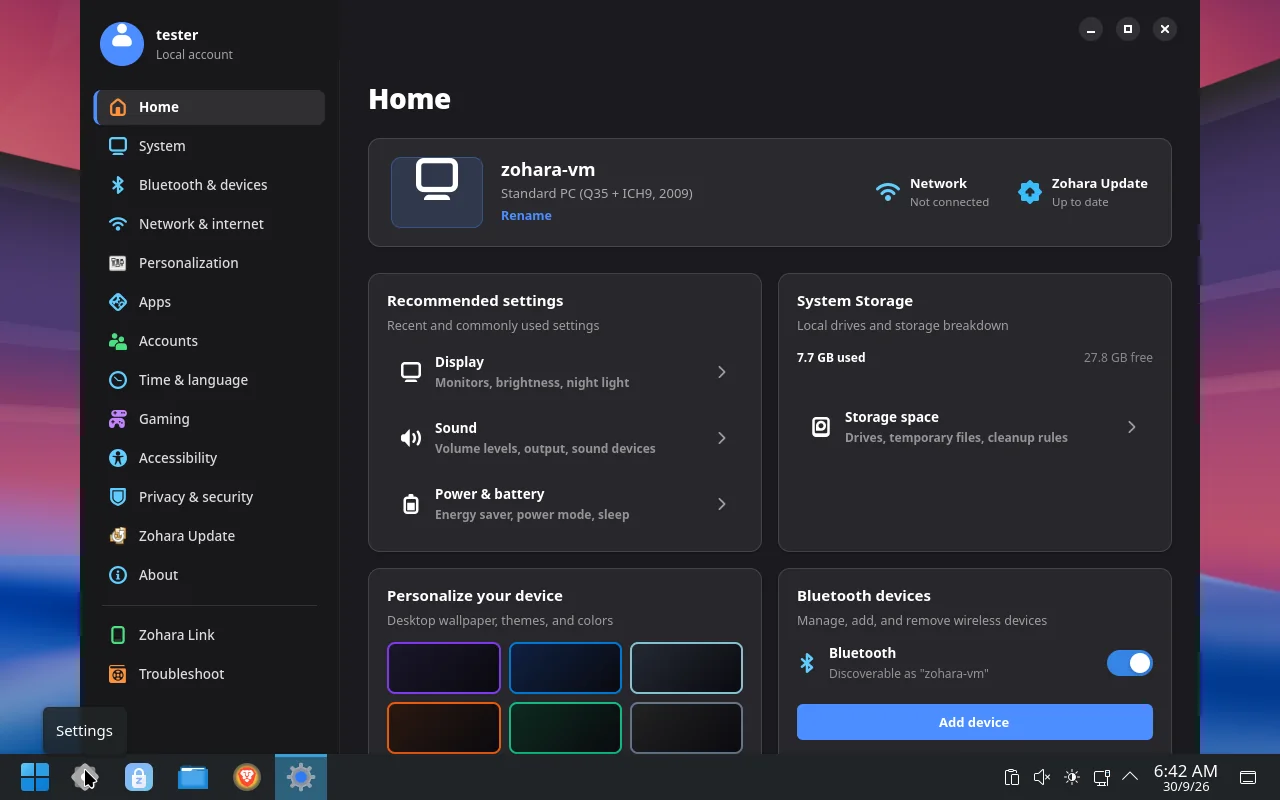
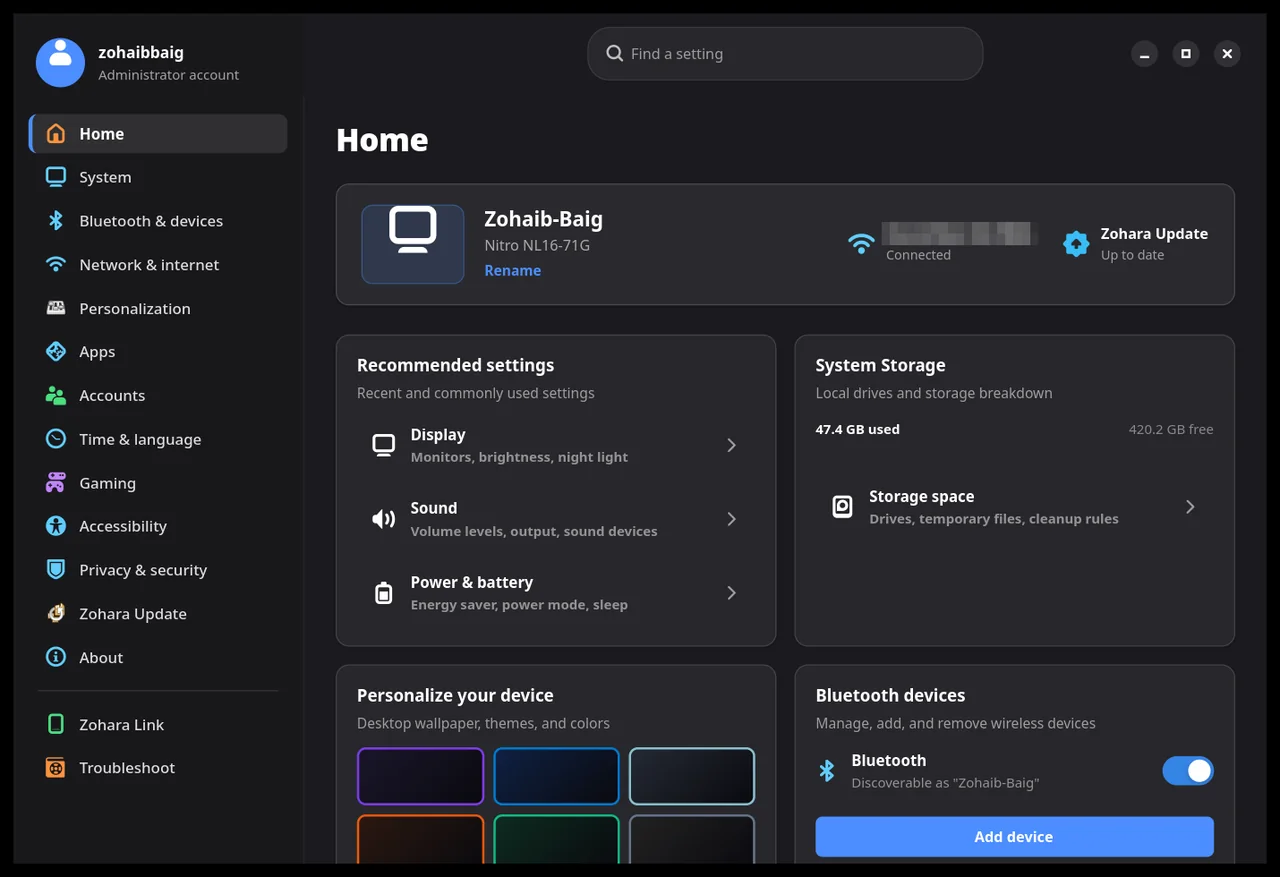
Store and Settings home pictures: new screenshots from Zohara OS 1.1 (Wi-Fi name blurred); gallery caption now says all pictures are from a real laptop

diff --git a/index.html b/index.html
@@ -148,14 +148,14 @@
     <section id="screenshots" class="section alt">
       <div class="wrap">
         <h2>A look around</h2>
-        <p class="section-lead">Click any picture to see it full size. The Store, Home and Start menu pictures are from a test build in a virtual machine. The Settings pages are from a laptop running Zohara OS 1.1.</p>
+        <p class="section-lead">Click any picture to see it full size. These pictures are from a laptop running Zohara OS 1.1.</p>
         <div class="gallery">
           <figure>
-            <a href="assets/img/store.webp"><img loading="lazy" src="assets/img/store.webp" width="1280" height="800" alt="Zohara Store's home page with large cards for Firefox, Steam, GIMP and VSCodium, and an Editor's Picks row below."></a>
+            <a href="assets/img/store.webp"><img loading="lazy" src="assets/img/store.webp" width="1280" height="890" alt="Zohara Store's home page with a large GIMP banner and an Editor's picks list with Mozilla Firefox, VLC Media Player, Discord and GIMP."></a>
             <figcaption><strong>Zohara Store.</strong> Find and install apps in one place.</figcaption>
           </figure>
           <figure>
-            <a href="assets/img/settings-home.webp"><img loading="lazy" src="assets/img/settings-home.webp" width="1280" height="800" alt="Zohara Settings home page showing the device name, network and update status, storage use, recommended settings and Bluetooth."></a>
+            <a href="assets/img/settings-home.webp"><img loading="lazy" src="assets/img/settings-home.webp" width="1280" height="877" alt="Zohara Settings home page showing the device name, network and update status, storage use, recommended settings and Bluetooth."></a>
             <figcaption><strong>Settings.</strong> A left rail and card groups, like the Windows 11 layout.</figcaption>
           </figure>
           <figure>
